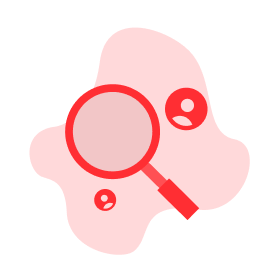
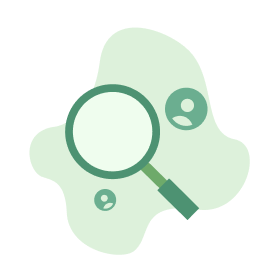
chore: services not found feat and responsiveness on filter box

diff --git a/drape_UI/src/pages/website/Services.tsx b/drape_UI/src/pages/website/Services.tsx
@@ -45,9 +45,18 @@ const Services: React.FC = () => {
         <div className="container mx-auto py-4">
           {/* Service Cards Grid */}
           <div className="grid grid-cols-1 md:grid-rows-1 lg:grid-rows-1 gap-6">
-            {services.map((service) => (
-              <ServiceCard key={service.id} service={service} />
-            ))}
+            {services && services.length > 0 ?
+              services.map((service) => (
+                <ServiceCard key={service.id} service={service} />
+              )) : (
+                <div className="flex items-center justify-center w-full h-full">
+                  <div className="flex flex-col items-center">
+                    <img src="assets/images/notfound.png" alt="No Item" className="mb-4" />
+                    <p className="text-gray-700 font-semibold text-center">No services available.</p>
+                  </div>
+                </div>
+              )
+            }
           </div>
         </div>
       </div>

diff --git a/drape_UI/src/pages/website/Products.tsx b/drape_UI/src/pages/website/Products.tsx
@@ -98,9 +98,9 @@ const Products: React.FC = () => {
             <div className="relative inline-block text-left">
               <button
                 onClick={() => setIsDropdownOpen(!isDropdownOpen)}
-                className="px-4 py-2 ml-4 bg-white border border-gray-300 rounded-lg shadow-sm"
+                className="px-4 py-2 ml-4 bg-white border border-gray-300 rounded-lg shadow-sm flex gap-1"
               >
-                Filter Categories
+                Filter <span className="hidden lg:block">Categories</span>
               </button>
 
               {isDropdownOpen && (
